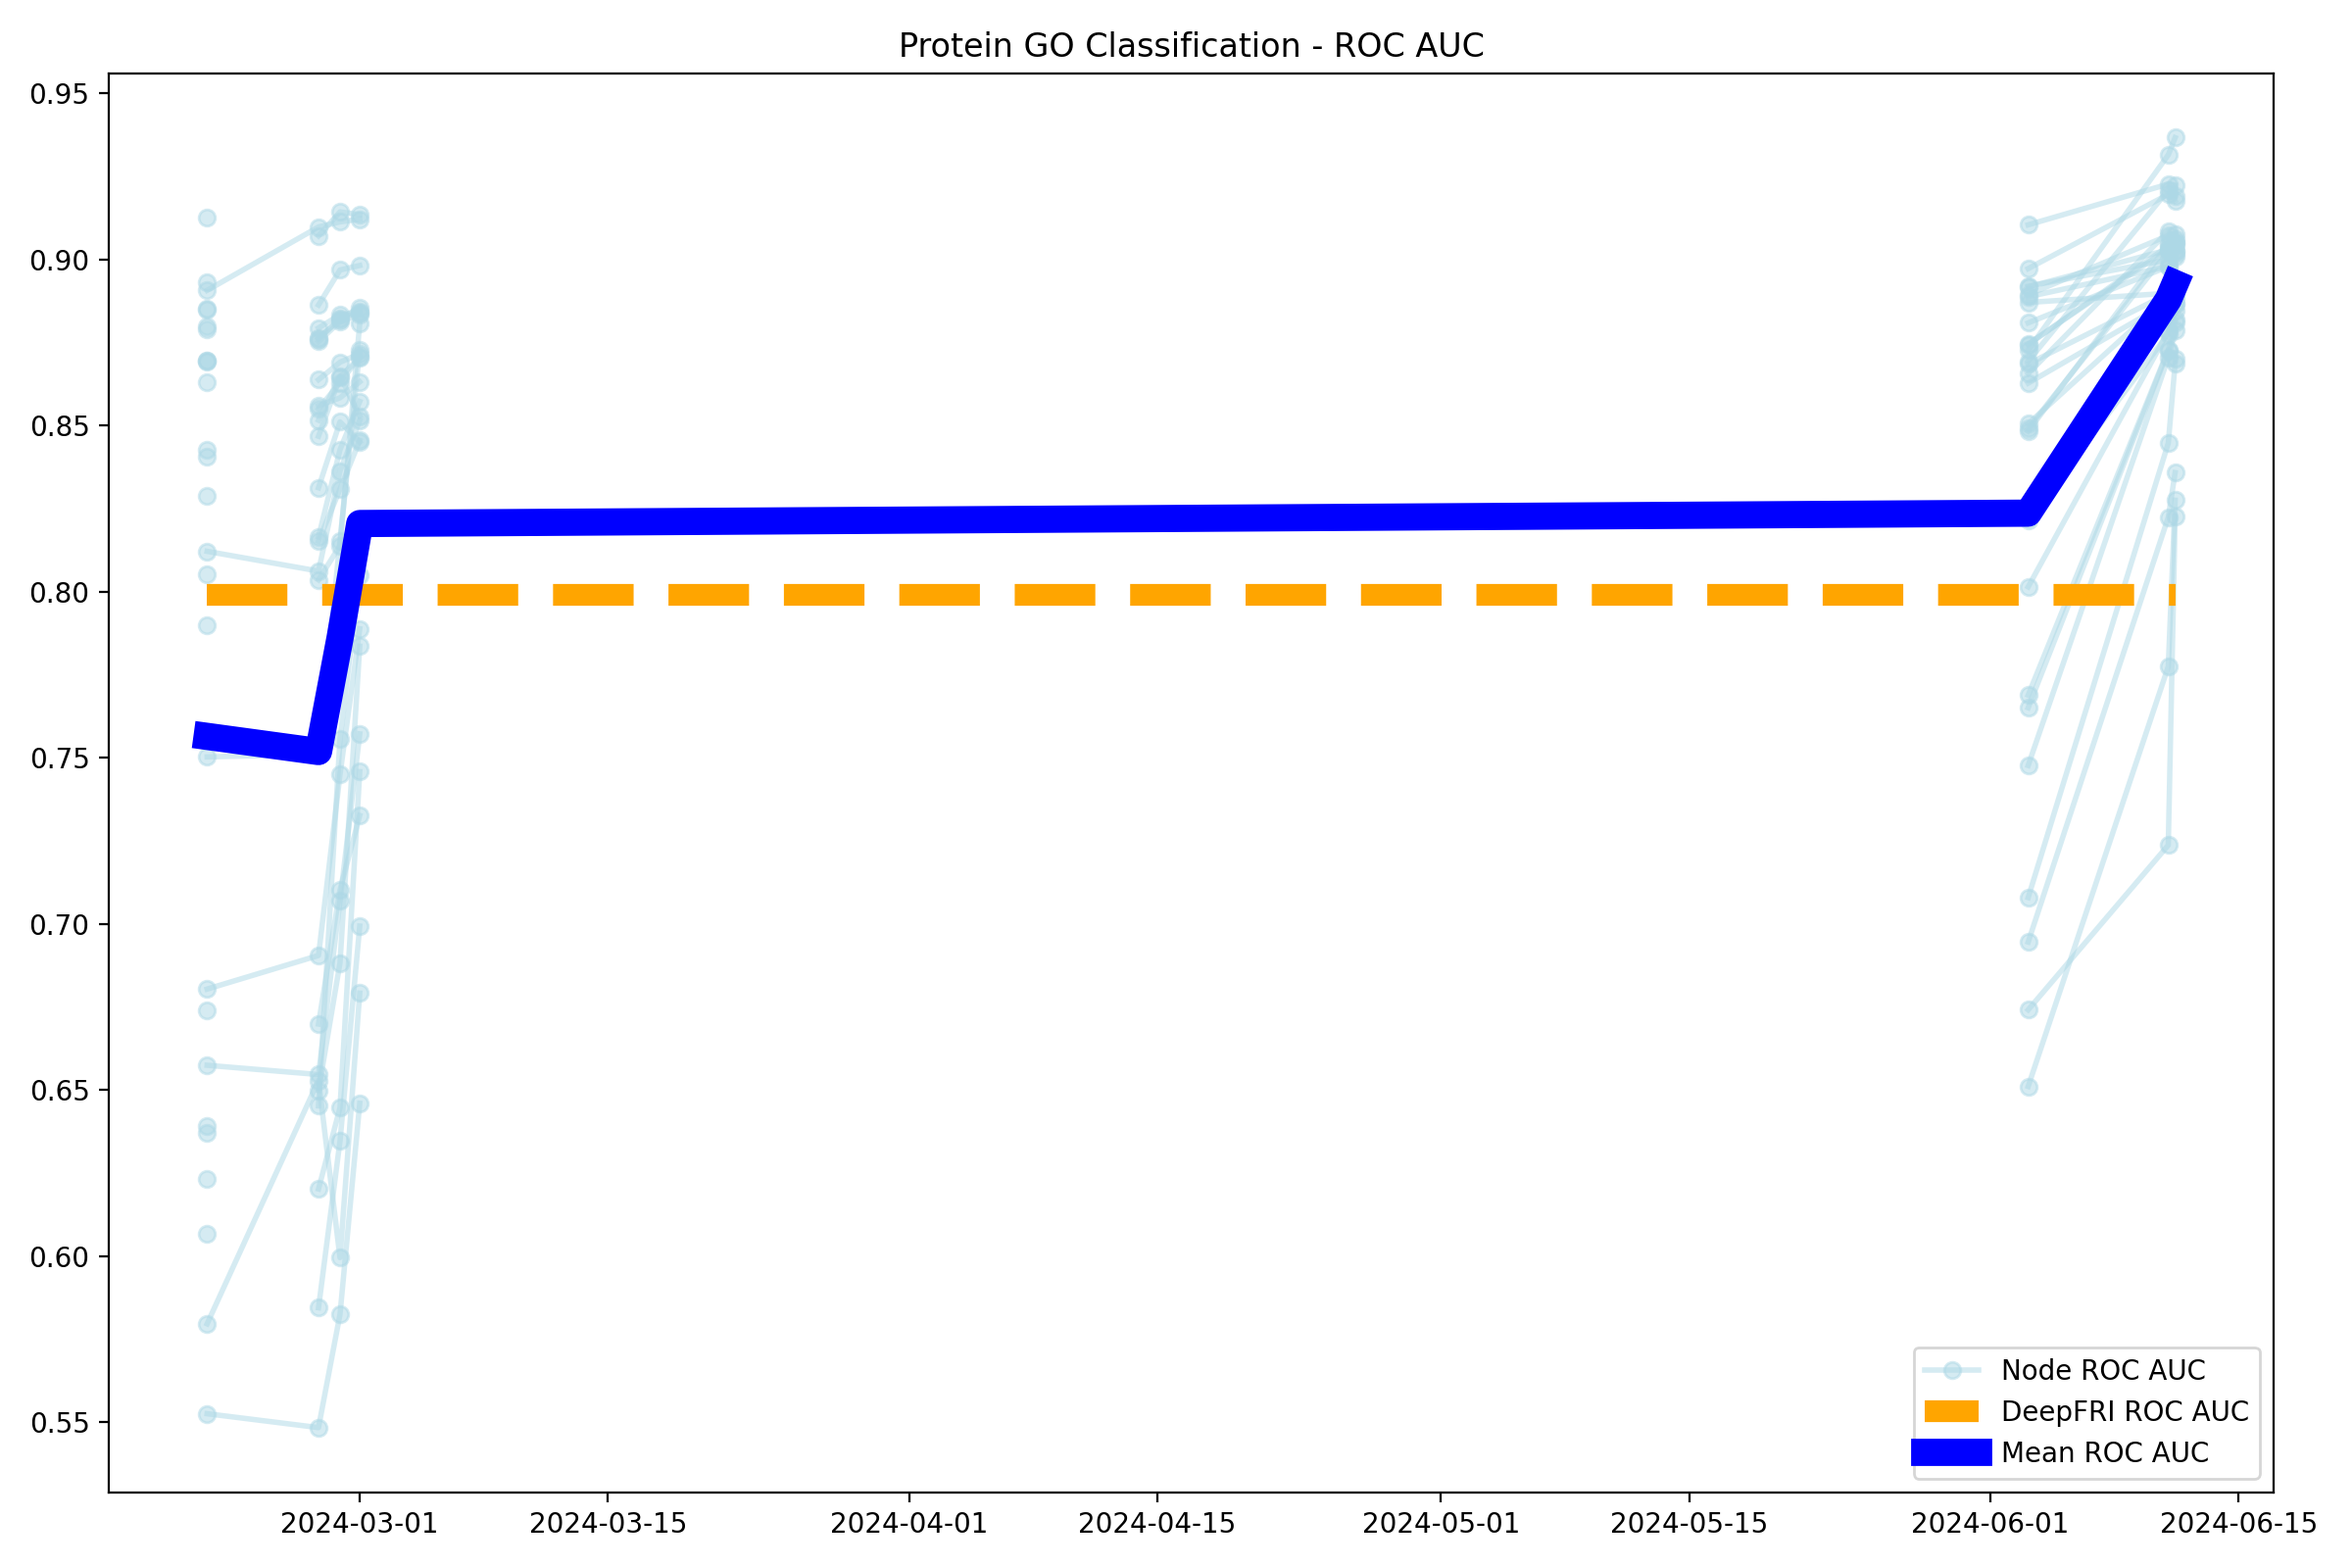
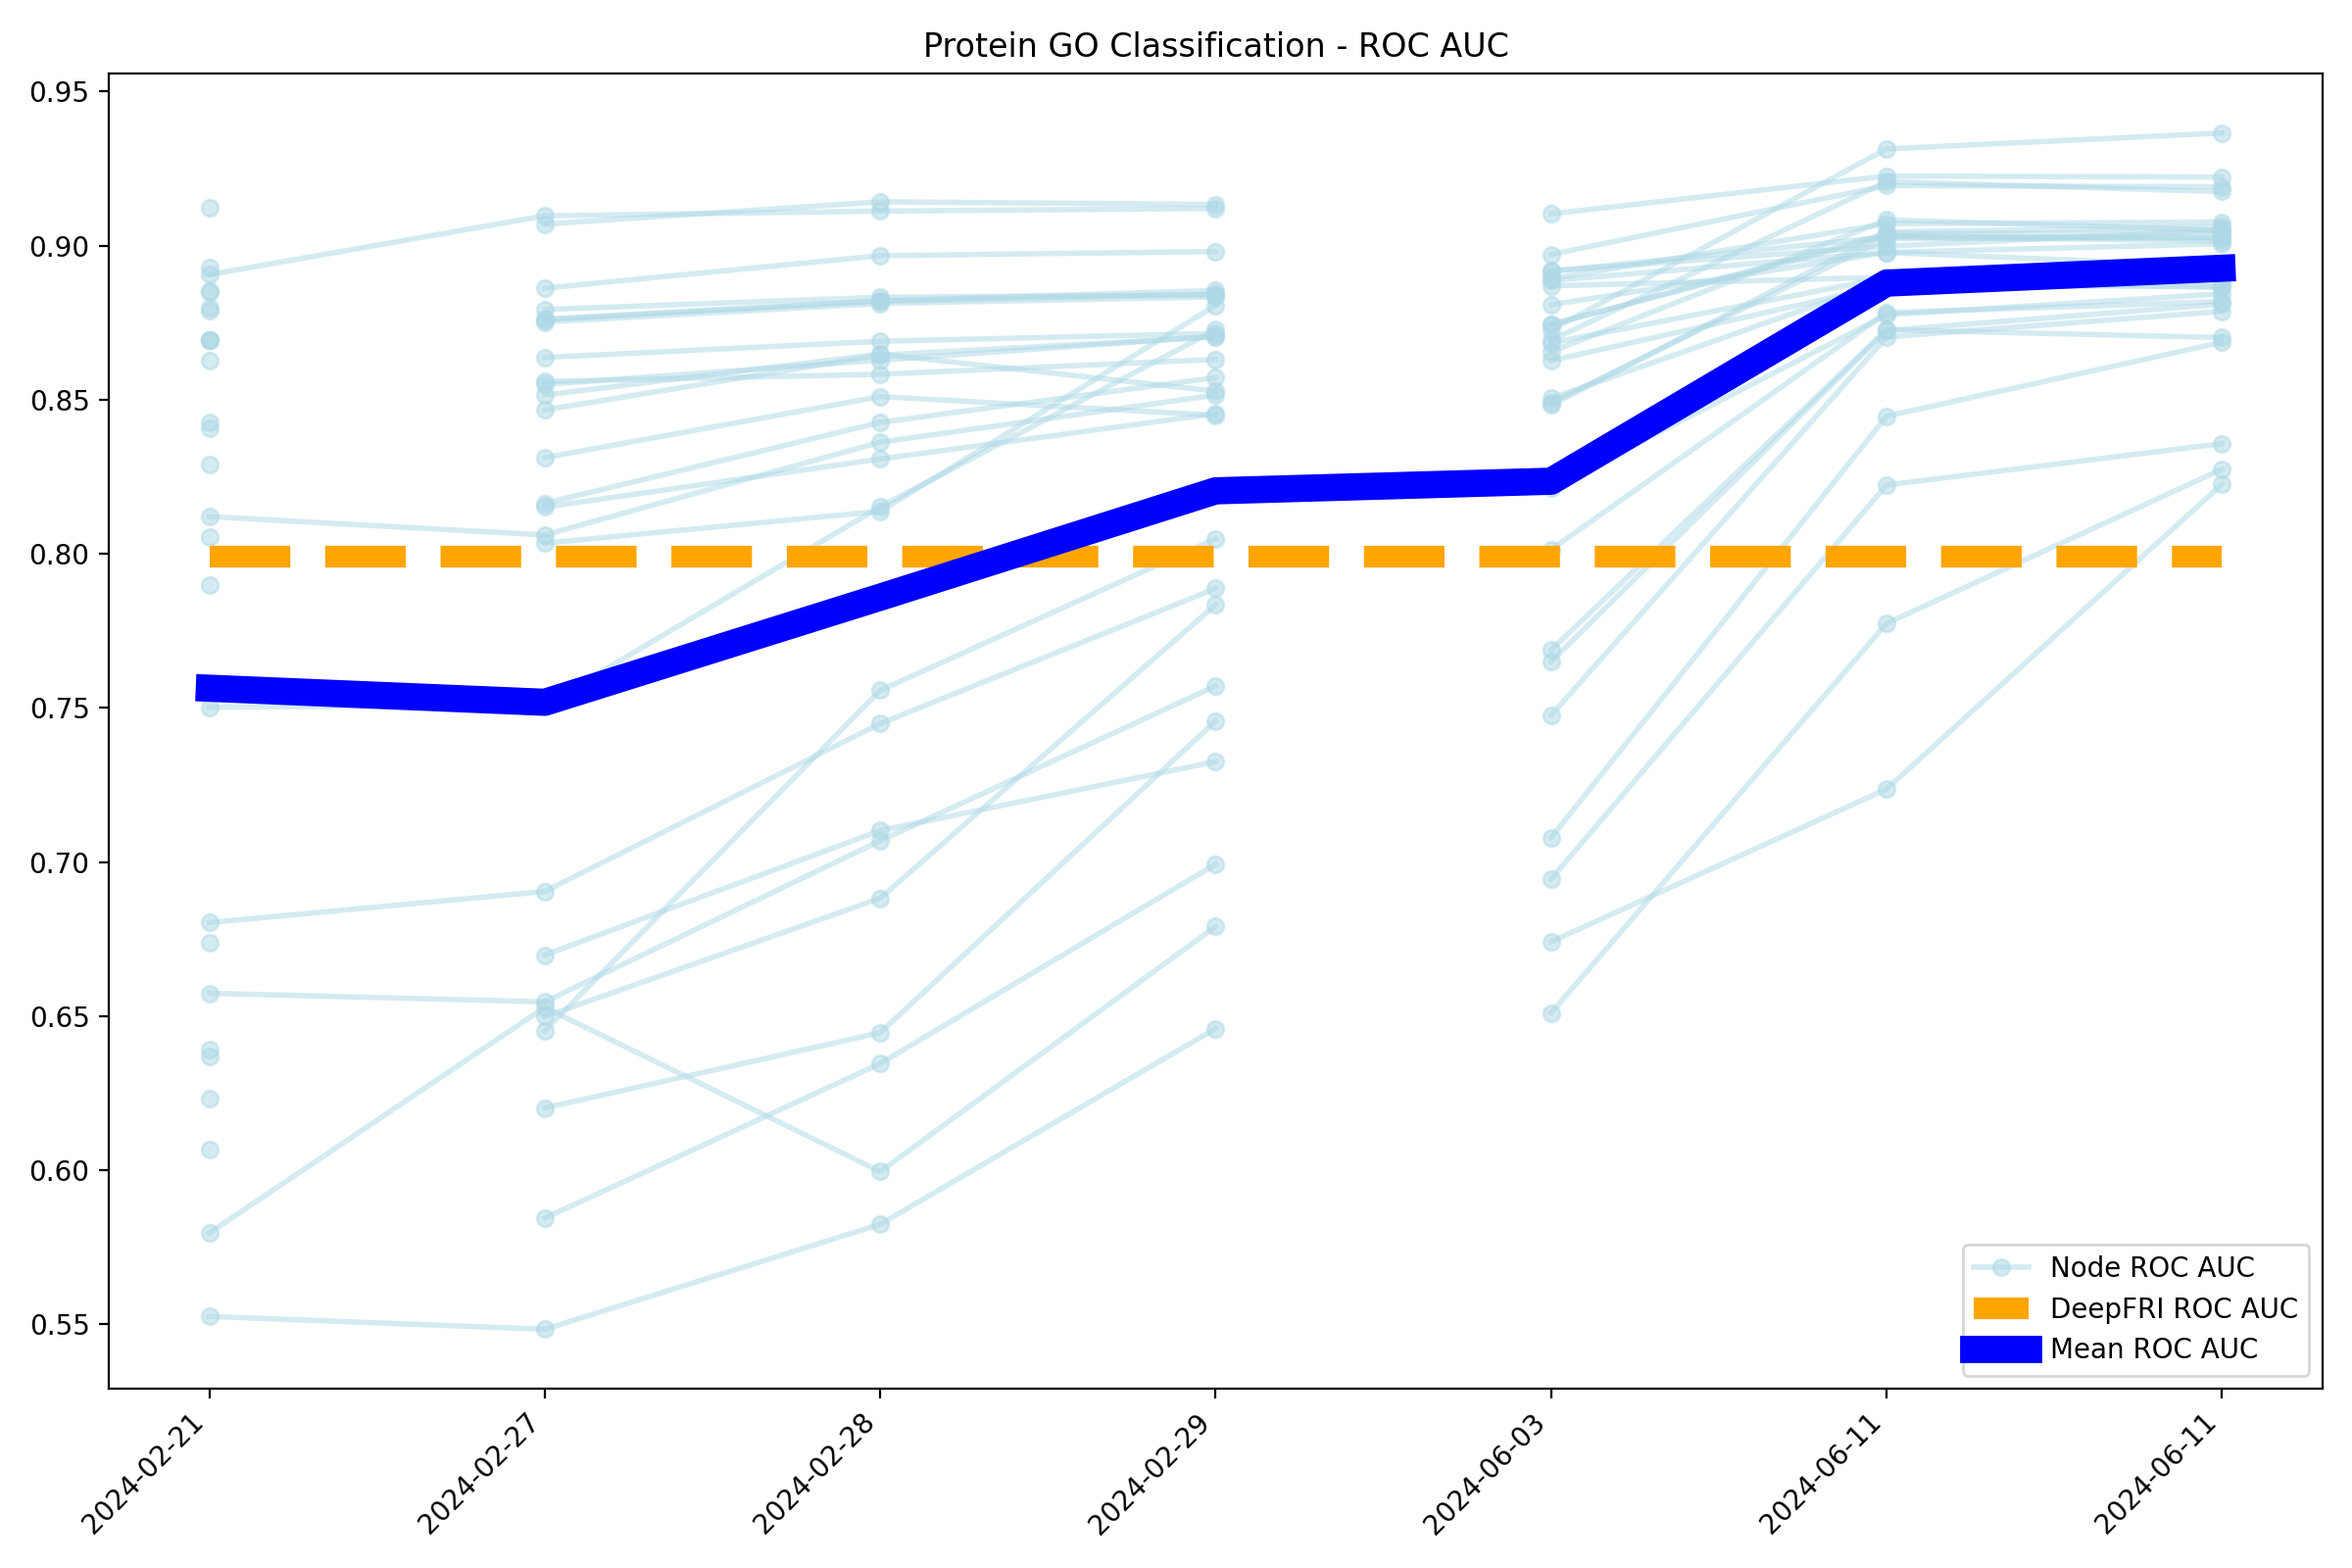
Improved progress plot

diff --git a/src/plotting.py b/src/plotting.py
@@ -238,30 +238,37 @@ def plot_experiments(plot_tests):
                     print('No node validation at', p)
 
     mean_roc_auc.sort(key=lambda x: x[0])
+    dates_labels = [m[0] for m in mean_roc_auc]
+    indexes = [i for i in range(len(mean_roc_auc))]
+    mean_vals = [m[1] for m in mean_roc_auc]
+
+    date_to_index = {dates_labels[i]: i for i in range(len(dates_labels))}
+
     for nodename, vals in nodes_roc_auc.items():
           vals.sort(key=lambda x: x[0])
     
     fig, ax = plt.subplots(1,1, figsize=(12,8))
     #fig.gca().invert_xaxis()
 
-    mean_dates = [m[0] for m in mean_roc_auc]
-    mean_vals = [m[1] for m in mean_roc_auc]
+    
     
     for nodename, vals in nodes_roc_auc.items():
         node_dates = [d for d, roc in vals]
         node_vals = [roc for d, roc in vals]
         #print(node_dates)
         #print(node_vals)
-        ax.plot(node_dates, node_vals, label='Node ROC AUC', marker='o', linewidth=2, alpha=0.5, color='lightblue')
+        node_indexes = [date_to_index[d] for d in node_dates]
+        ax.plot(node_indexes, node_vals, label='Node ROC AUC', marker='o', linewidth=2, alpha=0.5, color='lightblue')
 
     deepfri_val = json.load(open(results_deepfri_validation_path, 'r'))
     deepfri_postproc_roc_auc = deepfri_val['validation']['postprocessed']['roc_auc_ma_bin_raw']
-    ax.hlines(deepfri_postproc_roc_auc, min(mean_dates), max(mean_dates), linewidth=8, 
+    ax.hlines(deepfri_postproc_roc_auc, min(indexes), max(indexes), linewidth=8, 
         color='orange', label='DeepFRI ROC AUC', linestyles='--')
     #print(mean_dates)
     #print(mean_vals)
-    ax.plot(mean_dates, mean_vals, label='Mean ROC AUC', linewidth=10, color='blue')
-
+    ax.plot(indexes, mean_vals, label='Mean ROC AUC', linewidth=10, color='blue')
+    dates_labels_str = [str(d).split(' ')[0] for d in dates_labels]
+    ax.set_xticks(indexes, dates_labels_str, rotation=45, ha="right")
     handles, labels = fig.gca().get_legend_handles_labels()
     by_label = dict(zip(labels, handles))
     ax.legend(by_label.values(), by_label.keys())
